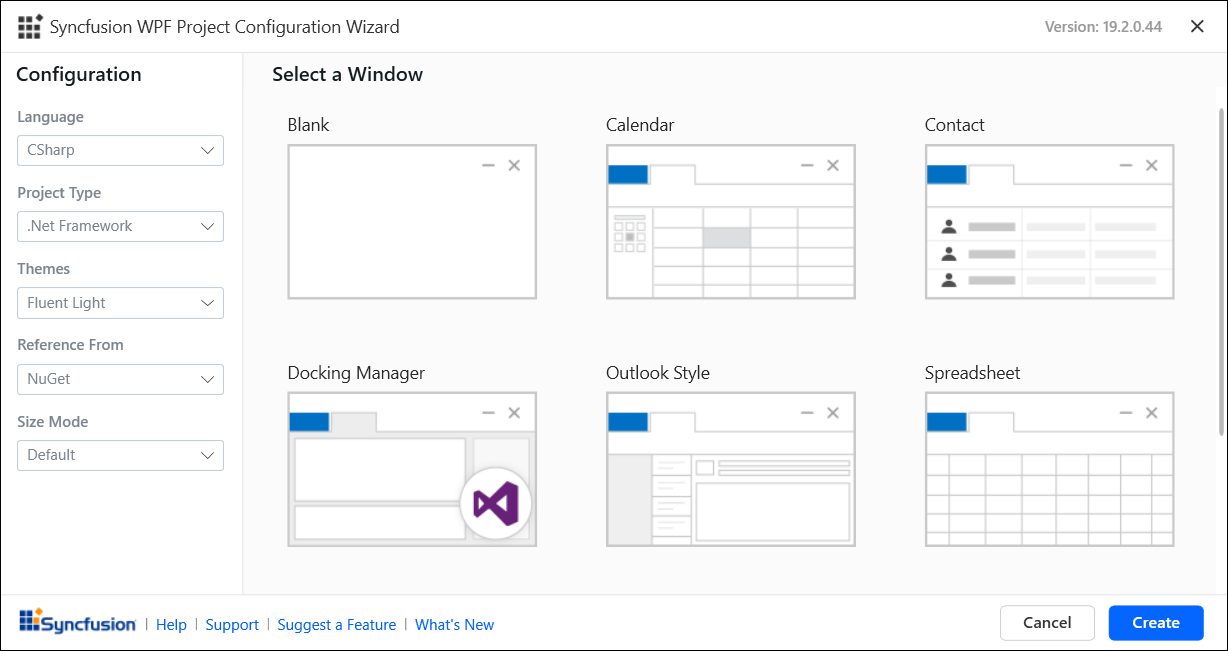
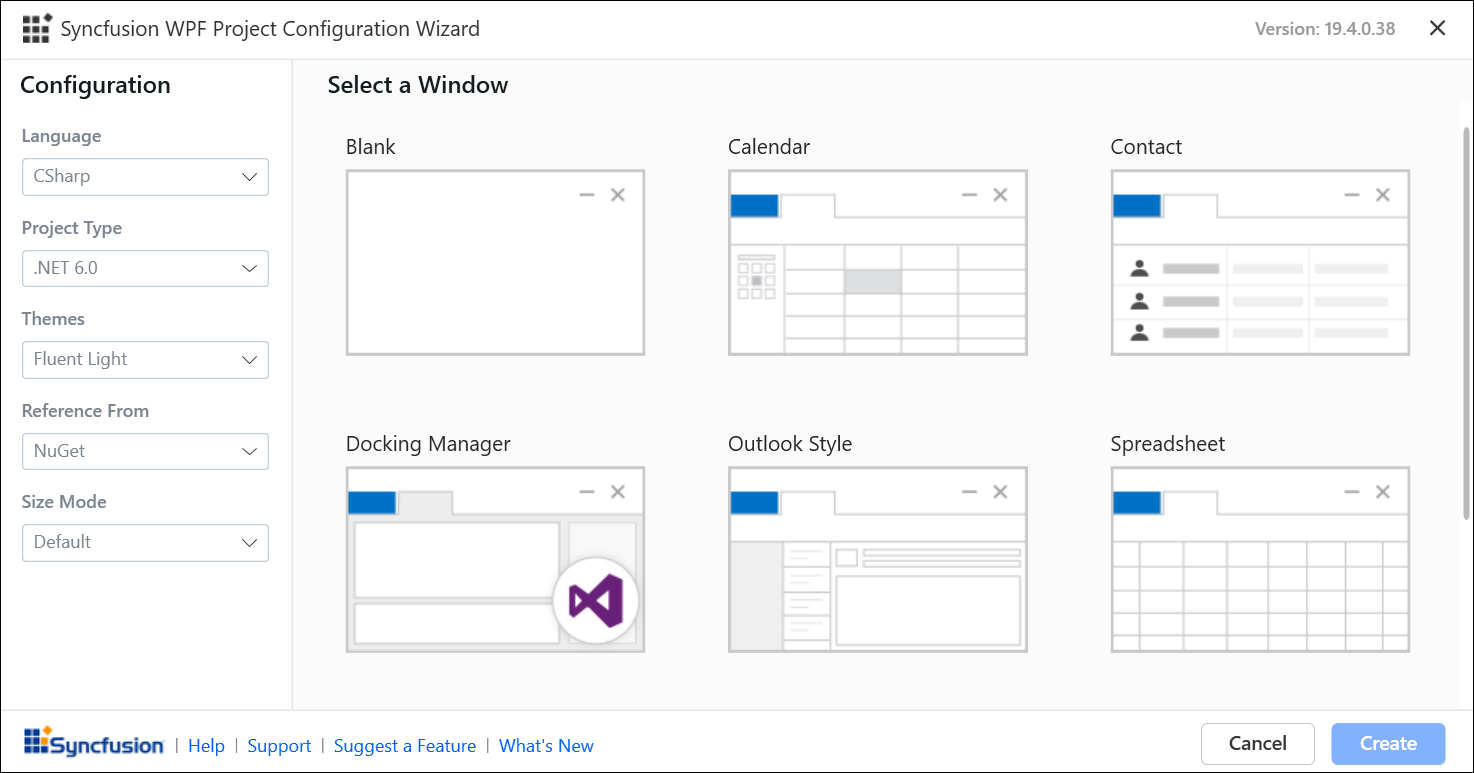
Extension UG Changes

diff --git a/wpf/Visual-Studio-Integration/VS2019-Extensions/Create-Project.md b/wpf/Visual-Studio-Integration/VS2019-Extensions/Create-Project.md
@@ -50,9 +50,9 @@ Create the Syncfusion WPF project using the Visual Studio Project Template by fo
 
 	**Project Configurations**
 
-	**Project Type:** Choose .Net 5.0, .Net Core 3.1 or .Net Framework as the project type.
+	**Project Type:** Choose .Net 6.0,.Net 5.0, .Net Core 3.1 or .Net Framework as the project type.
 
-	N> From Visual Studio 2019, Project type selection option will be available in Syncfusion WPF Project template configuration. The .Net Core 3.1 and .Net 5.0 option will be listed in project type only when the .Net Core 3.0 and .Net 5.0 setup has been installed.  
+	N> From Visual Studio 2019, Project type selection option will be available in Syncfusion WPF Project template configuration. The .Net Core 3.1, .Net 5.0, and .Net 6.0 option will be listed in project type only when the .Net Core 3.0, .Net 5.0, and .Net 6.0 setup has been installed. .NET 6.0 project type was available from V19.4.0.38.
 
 	**Language:** Select the language, either CSharp or VB.
 
